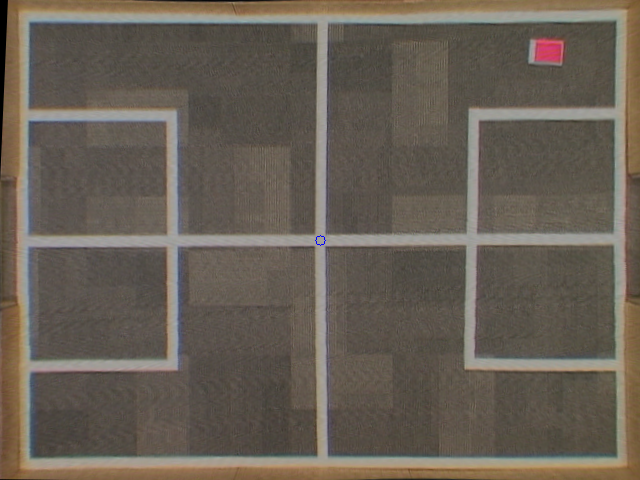
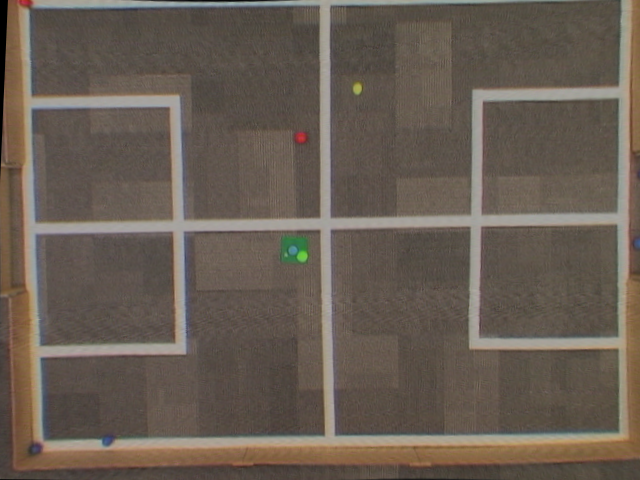
all colors (except white) are tracked, need more improvement for red

diff --git a/vision/color_detection.py b/vision/color_detection.py
@@ -12,28 +12,22 @@ def nothing(x):
 WHITE_LOWER = np.array([1, 0, 100])
 WHITE_HIGHER = np.array([36, 255, 255])
 
-BLUE_LOWER = np.array([90, 50, 50])
-BLUE_HIGHER = np.array([130, 255, 255])
+BLUE_LOWER = np.array([70, 50, 50])
+BLUE_HIGHER = np.array([160, 255, 255])
 
-RED_LOWER = np.array([100, 160, 60])
-RED_HIGHER = np.array([200, 255, 255])
+RED_LOWER = np.array([130, 100, 100]) 
+RED_HIGHER = np.array([180, 255, 255])
 
-'''
-RED_LOWER = np.array([0, 240, 140])
-RED_HIGHER = np.array([9, 255, 255])
-'''
-YELLOW_LOWER = np.array([9, 50, 50])
-YELLOW_HIGHER = np.array([11, 255, 255])
+GREEN_LOWER = np.array([50, 110, 110])
+GREEN_HIGHER = np.array([70, 255, 255])
+
+BRIGHT_GREEN_LOWER = np.array([40, 110, 110])
+BRIGHT_GREEN_HIGHER = np.array([55, 255, 255])
+
+YELLOW_LOWER = np.array([25, 100, 100])
+YELLOW_HIGHER = np.array([40, 255, 255])
 
 c = Camera()
-# create trackbars for color change
-cv2.namedWindow('image')
-cv2.createTrackbar('H low','image',0,360,nothing)
-cv2.createTrackbar('S low','image',0,255,nothing)
-cv2.createTrackbar('V low','image',0,255,nothing)
-cv2.createTrackbar('H high','image',0,360,nothing)
-cv2.createTrackbar('S high','image',0,255,nothing)
-cv2.createTrackbar('V high','image',0,255,nothing)
 
 while(1):
 
@@ -42,25 +36,14 @@ while(1):
 	blur = cv2.GaussianBlur(frame,(19,19), 0)
 	hsv = cv2.cvtColor(blur, cv2.COLOR_BGR2HSV)
 
-	# get current positions of four trackbars
-	h_l = cv2.getTrackbarPos('H low','image')
-	s_l = cv2.getTrackbarPos('S low','image')
-	v_l = cv2.getTrackbarPos('V low','image')
-	h_h = cv2.getTrackbarPos('H high','image')
-	s_h = cv2.getTrackbarPos('S high','image')
-	v_h = cv2.getTrackbarPos('V high','image')
+	mask = cv2.inRange(hsv, YELLOW_LOWER, YELLOW_HIGHER)
 
-	print "["+str(h_l)+","+str(s_l)+","+str(v_l)+"] ["+str(h_h)+","+str(s_h)+","+str(v_h)+"]" 
-	low = np.array([h_l, s_l, v_l])
-	high = np.array([h_h, s_h, v_l])
-
-	mask = cv2.inRange(hsv, low, high)
-	# mask = cv2.inRange(hsv, BLUE_LOWER, BLUE_HIGHER)
 	ret,thresh = cv2.threshold(mask,127,255,0)
 
 	_, contours, _ = cv2.findContours(thresh, 1, 2)
-	# len(contours) represents the number of objects detected
 
+	# len(contours) represents the number of objects detected
+	print len(contours)
 	for i in range(0, len(contours)):
 		cnt = contours[i]
 		M = cv2.moments(cnt)
@@ -70,11 +53,21 @@ while(1):
 		# center coordinates:	
 		cx = int(M['m10']/M['m00'])
 		cy = int(M['m01']/M['m00'])
-
+		'''
+		---------this is for detecting top plate-----------
+		x,y,w,h = cv2.boundingRect(cnt)
+		mask = cv2.rectangle(mask,(x,y),(x+w,y+h),(0,255,0),2)
+		rect = cv2.minAreaRect(cnt)
+		box = cv2.boxPoints(rect)
+		box = np.int0(box)
+		mask = cv2.drawContours(mask,[box],0,(0,0,255),2)
+		cv2.rectangle(frame, (x,y),(x+w,y+h),(0,255,0),2)
+		'''
 		(x,y),radius = cv2.minEnclosingCircle(cnt)
 		center = (int(x),int(y))
 		radius = int(radius)
 		cv2.circle(frame,center,radius,(0,255,0),2)
+		
 	
     # Bitwise-AND mask and original image
 	res = cv2.bitwise_and(frame,frame, mask= mask)

diff --git a/vision/tracker.py b/vision/tracker.py
@@ -8,11 +8,11 @@ import cv2
 WHITE_LOWER = np.array([1, 0, 100])
 WHITE_HIGHER = np.array([36, 255, 255])
 
-BLUE_LOWER = np.array([90, 50., 50.])
-BLUE_HIGHER = np.array([130, 255., 255.])
+BLUE_LOWER = np.array([70, 50, 50])
+BLUE_HIGHER = np.array([160, 255, 255])
 
-RED_LOWER = np.array([0, 240, 140])
-RED_HIGHER = np.array([9, 255, 255])
+RED_LOWER = np.array([0, 175, 90])
+RED_HIGHER = np.array([230, 255, 255])
 
 YELLOW_LOWER = np.array([9, 50, 50])
 YELLOW_HIGHER = np.array([11, 255, 255])
@@ -25,13 +25,14 @@ def get_ball_coordinates(ballColor):
 	frame = step(c.get_frame())
 	# apply Gaussian blurring to remove noise
 	blur = cv2.GaussianBlur(frame,(19,19), 0)
+
 	# convert RGB color scale into HSV
 	hsv = cv2.cvtColor(blur, cv2.COLOR_BGR2HSV)
-	# define range of blue color in HSV
-
-	if ballColor == 'red':
+	
+	# define range of ball color in HSV
+	if ballColor == 'RED':
 		mask = cv2.inRange(hsv, RED_LOWER, RED_HIGHER)
-	elif ballColor == 'blue':
+	elif ballColor == 'BLUE':
 		mask = cv2.inRange(hsv, BLUE_LOWER, BLUE_HIGHER)
 
 	ret,thresh = cv2.threshold(mask,127,255,0)
@@ -58,3 +59,14 @@ def get_ball_coordinates(ballColor):
 
 	return center	
 	
+def opponent_defender_coordinates():
+	pass
+
+def opponent_attacker_coordinates():
+	pass
+
+def our_defender_coordinates():
+	pass
+
+def our_attacker_coordinates():
+	pass				

diff --git a/vision/test.py b/vision/test.py
@@ -1,4 +1,6 @@
 from tracker import *
+import cv2
 
 x, y = get_ball_coordinates('blue')
+
 print x, y
